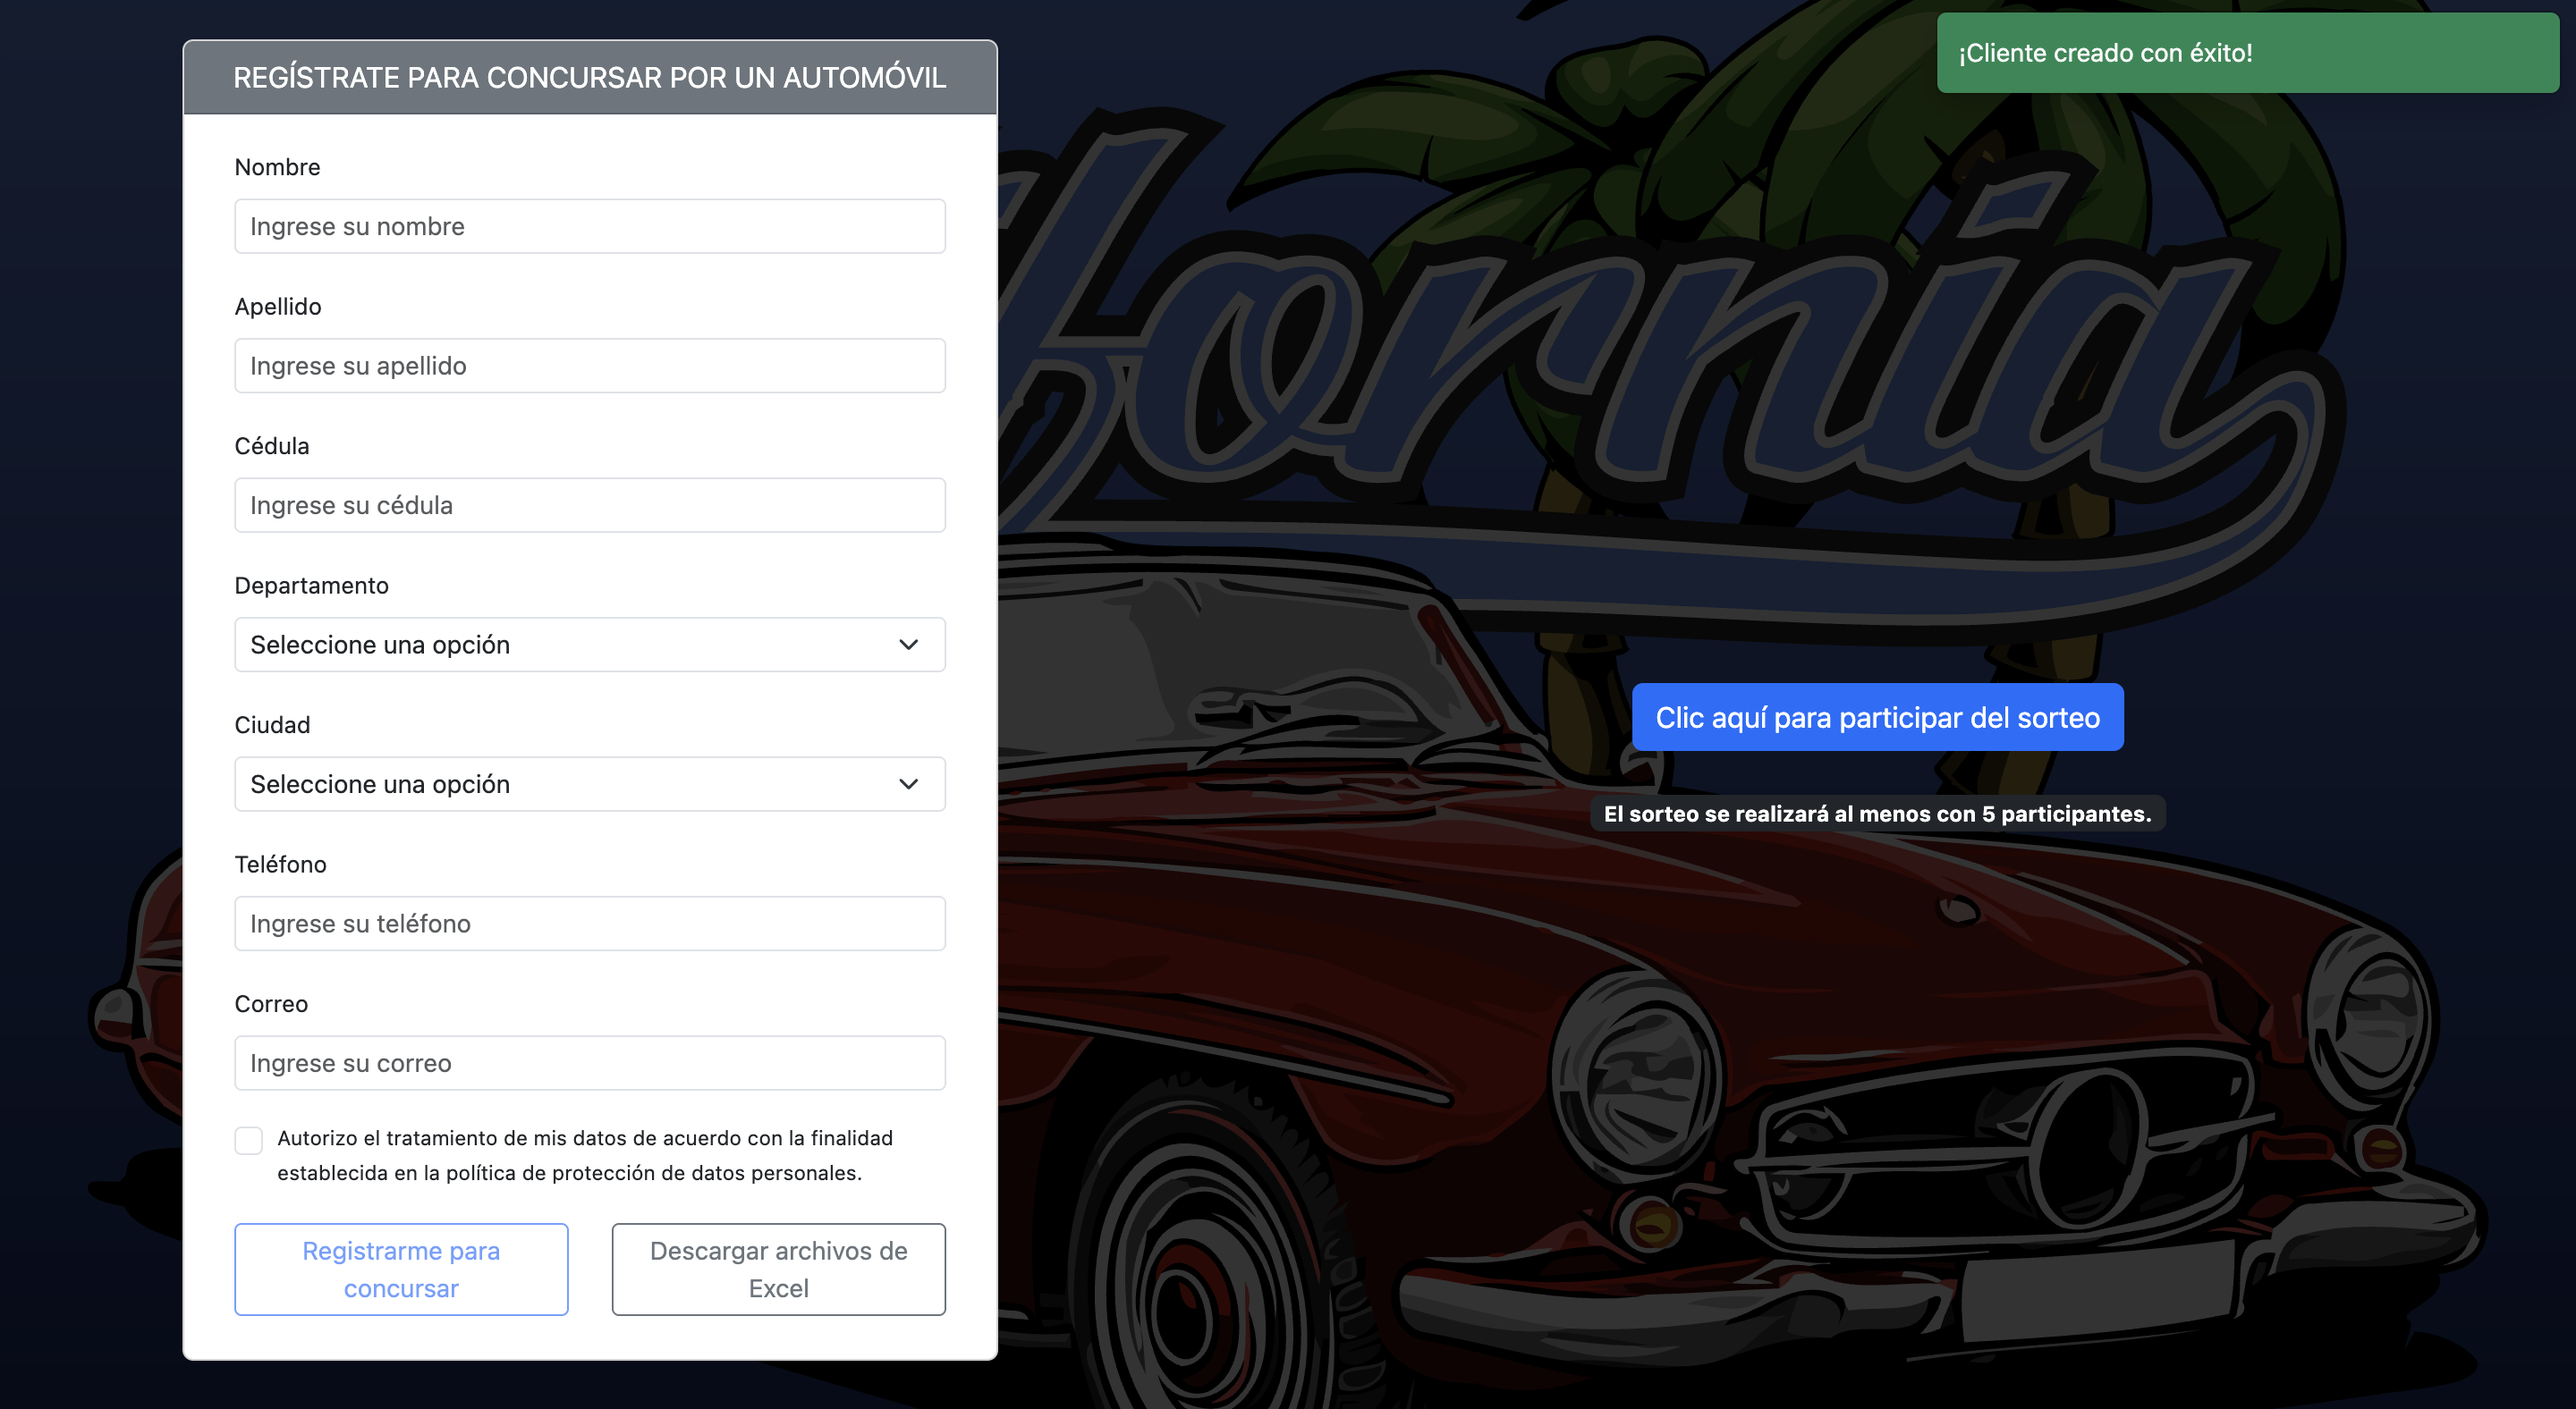
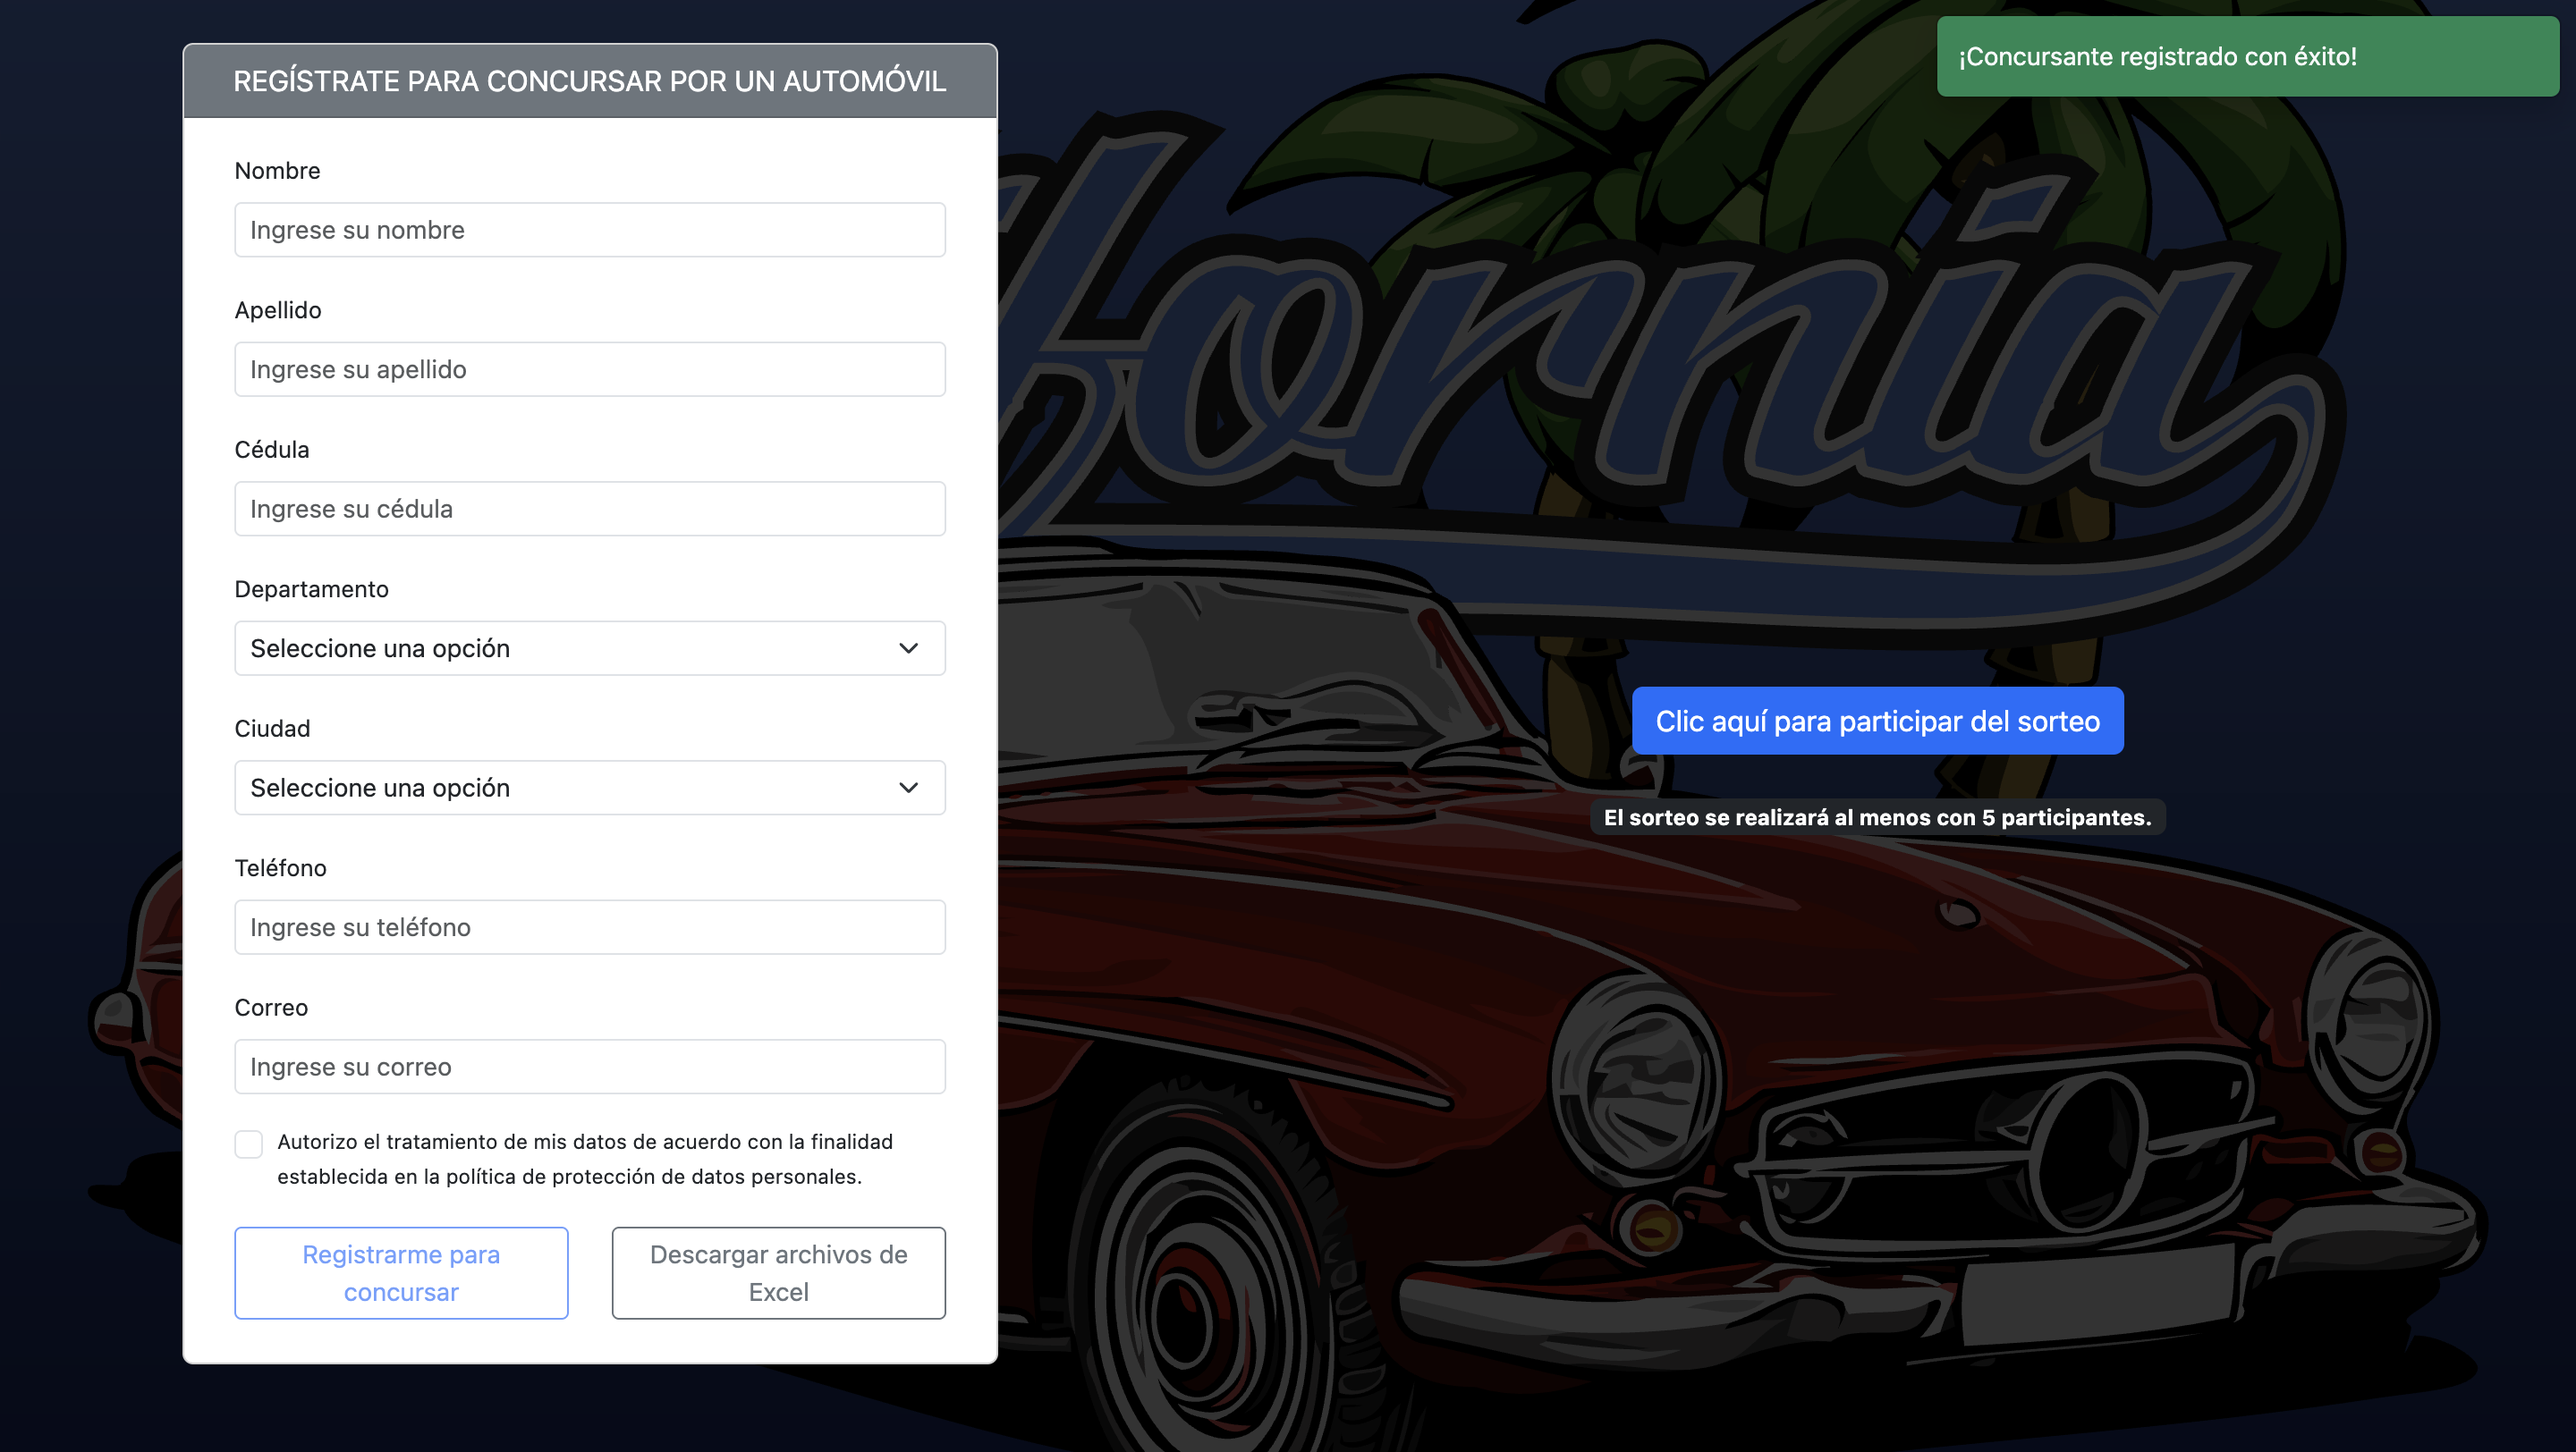
Cambio de una imagen en README.md

diff --git a/angular/src/app/pages/home/home.component.ts b/angular/src/app/pages/home/home.component.ts
@@ -169,7 +169,7 @@ export class HomeComponent {
     }
   }
 
-  showToast(message: string = '¡Cliente creado con éxito!') {
+  showToast(message: string = '¡Concursante registrado con éxito!') {
     this.toastService.show(message, 'bg-success text-light');
   }
 }
